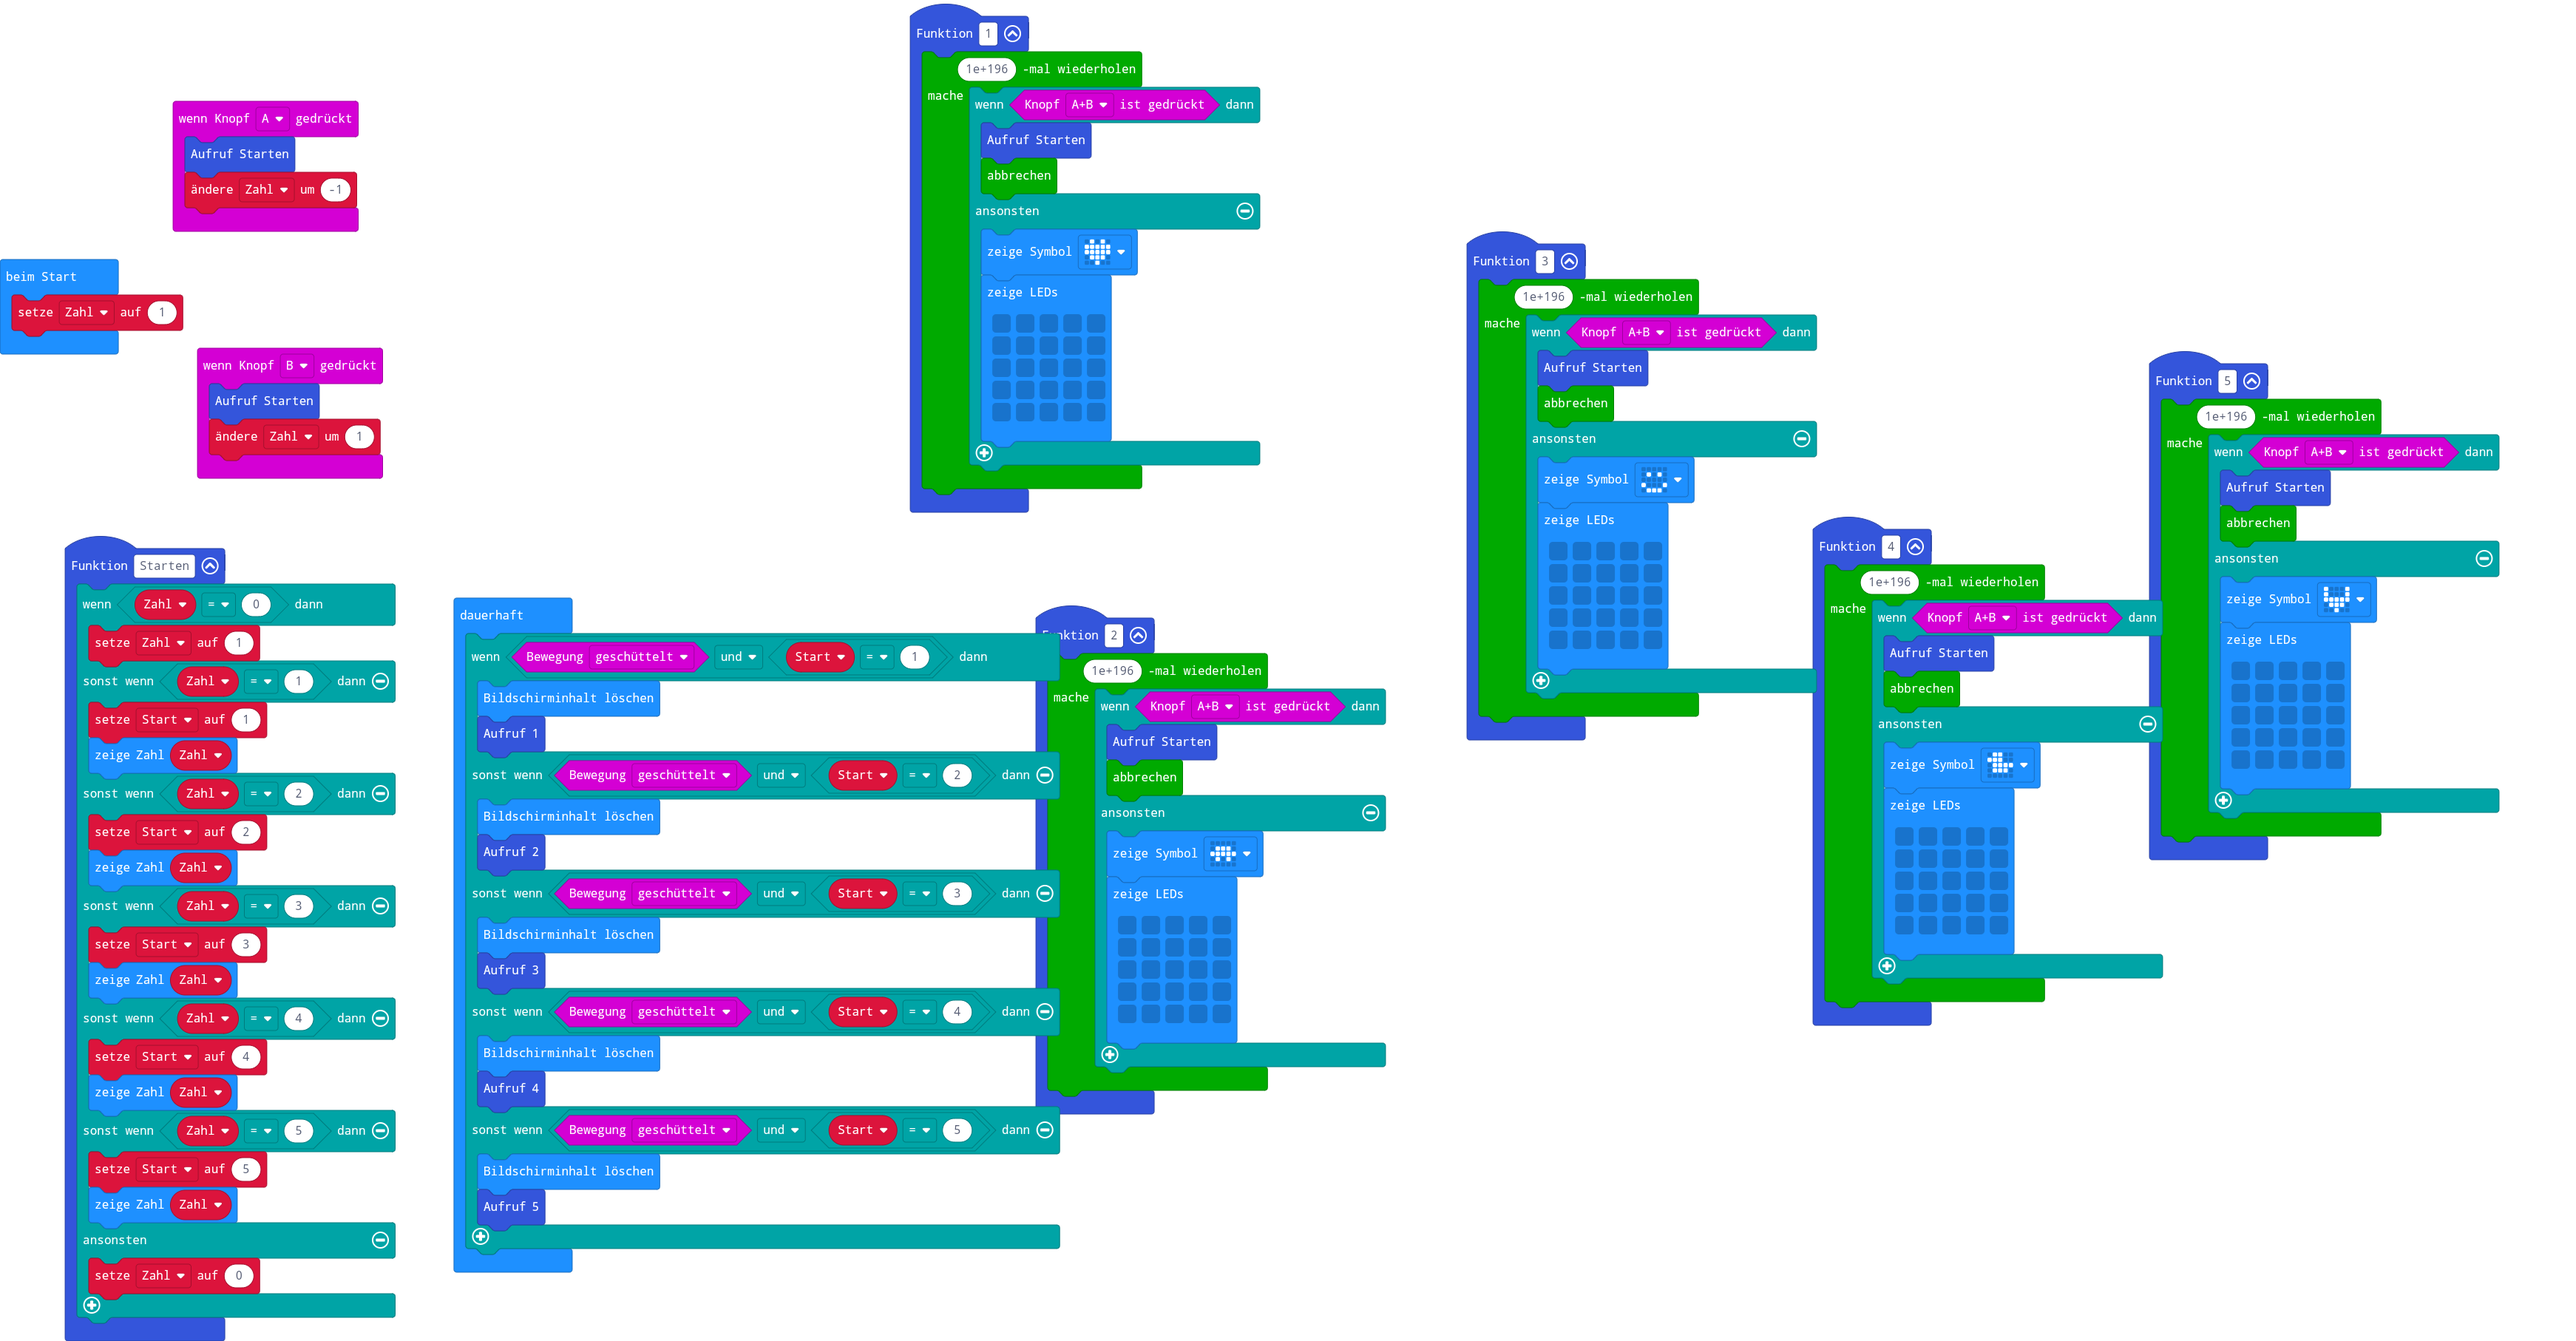
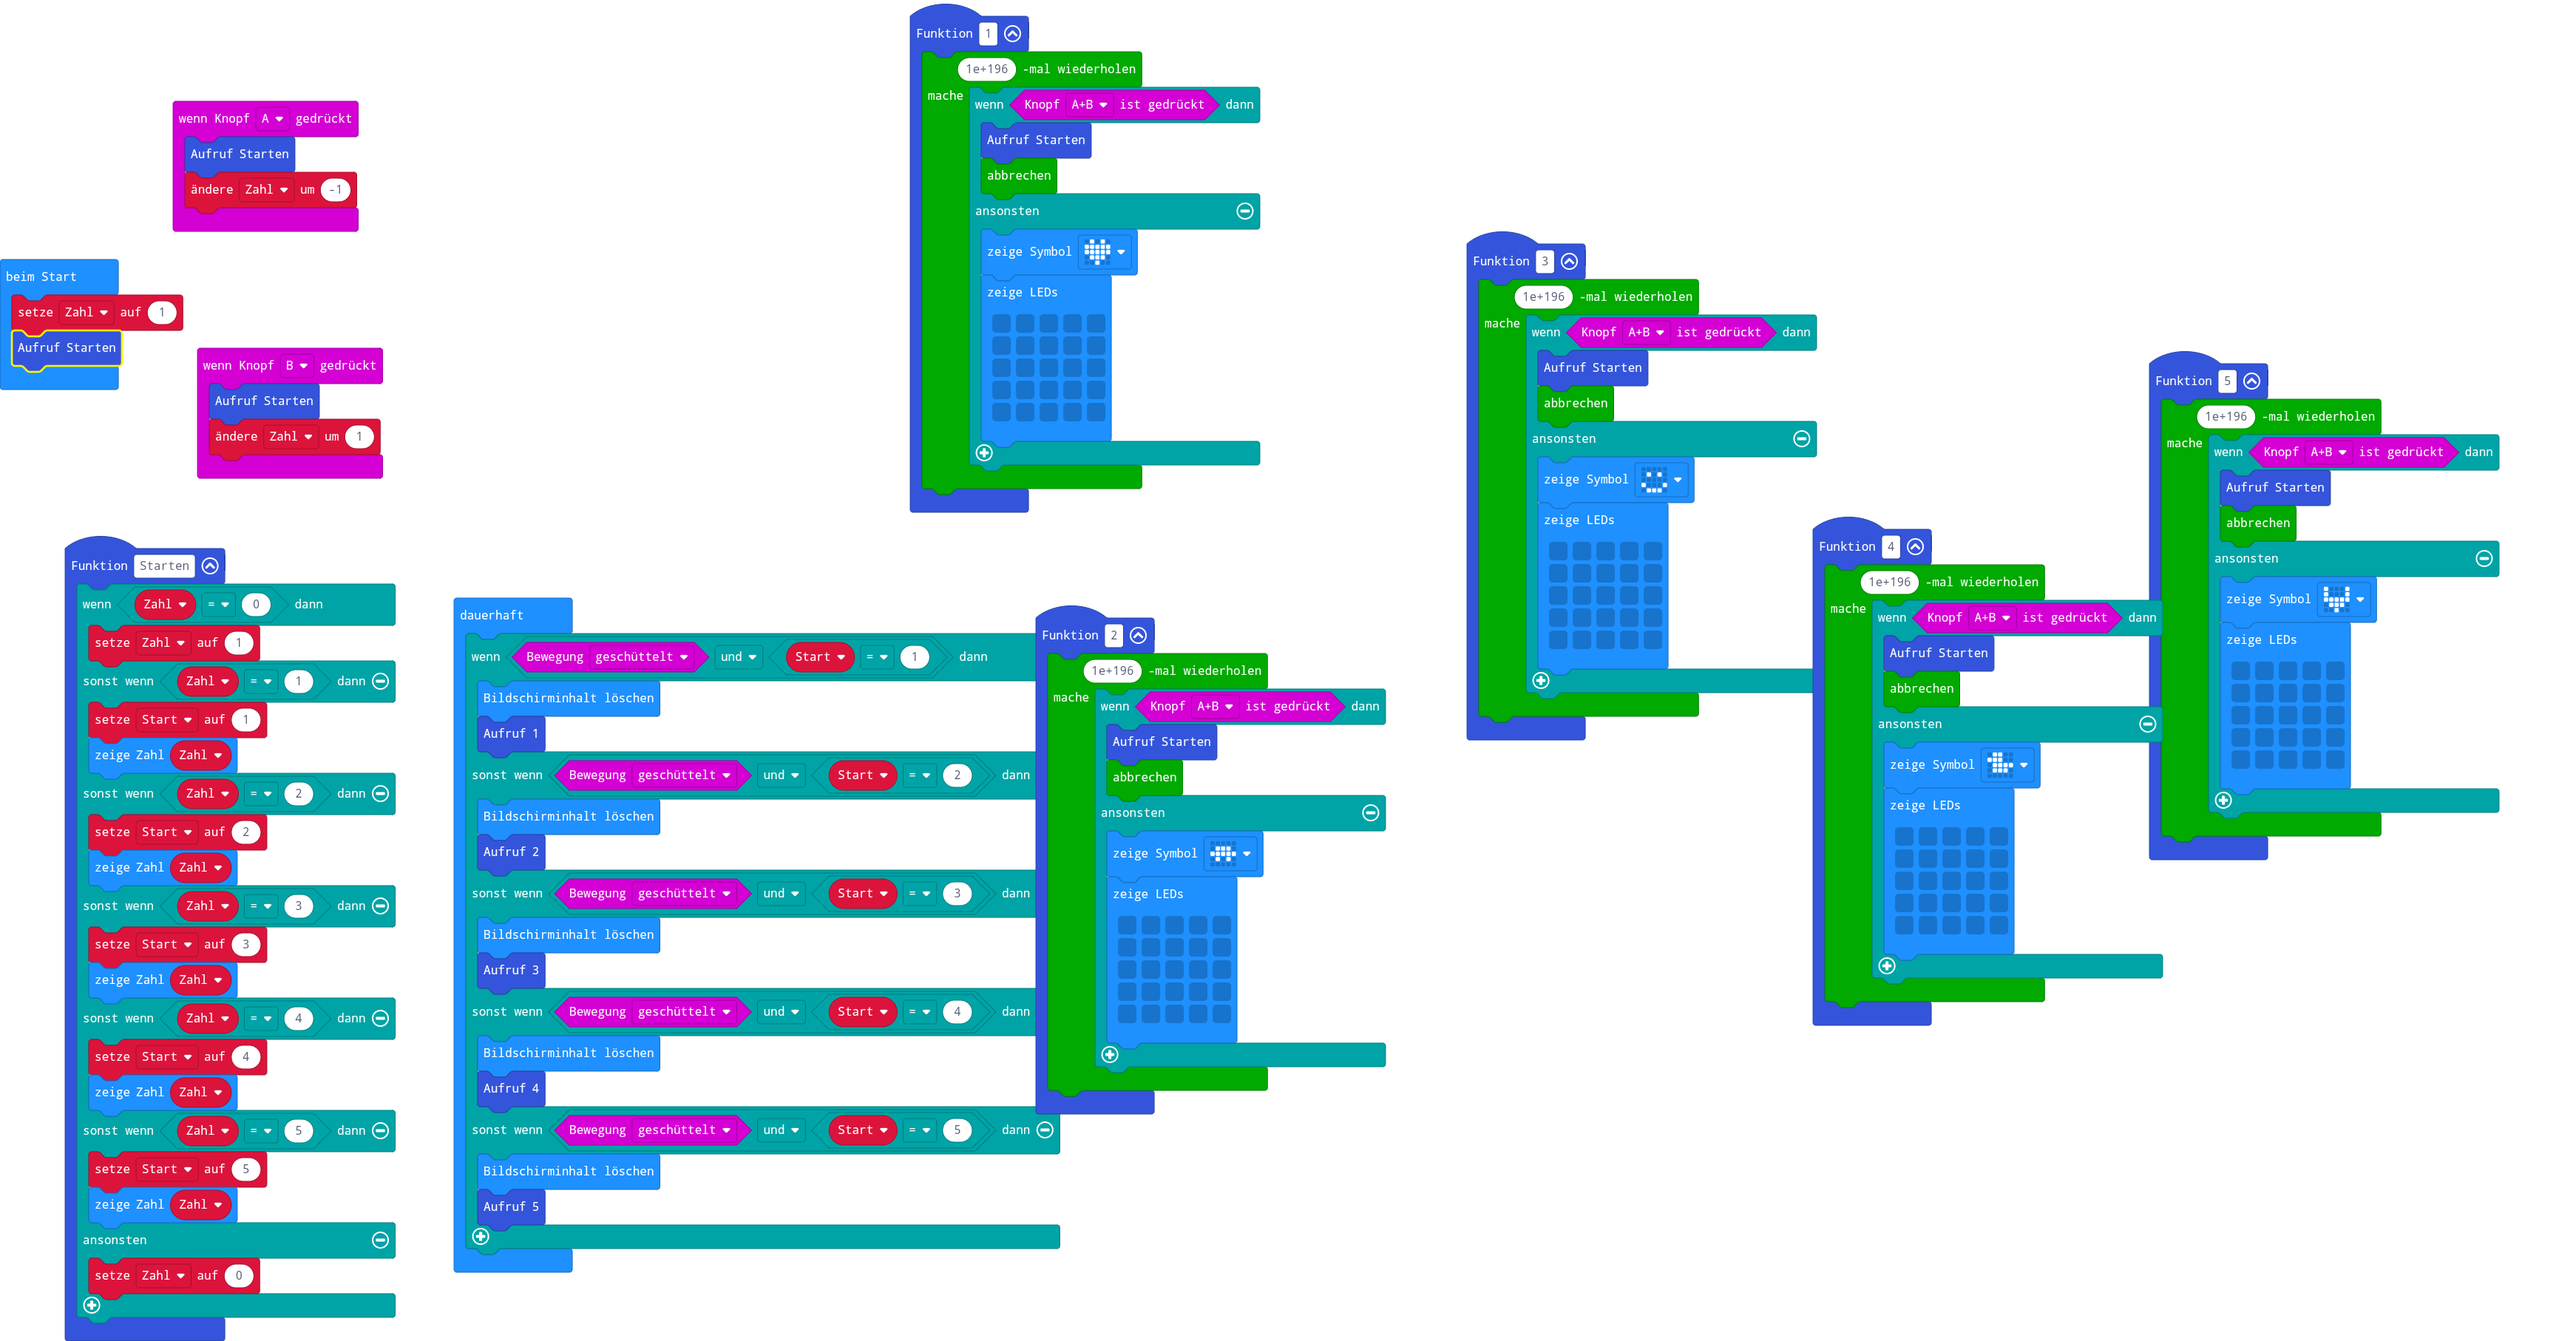
Aktualisiere main.blocks, main.ts

diff --git a/main.ts b/main.ts
@@ -116,6 +116,7 @@ function _1 () {
 let Start = 0
 let Zahl = 0
 Zahl = 1
+Starten()
 basic.forever(function () {
     if (input.isGesture(Gesture.Shake) && Start == 1) {
         basic.clearScreen()
